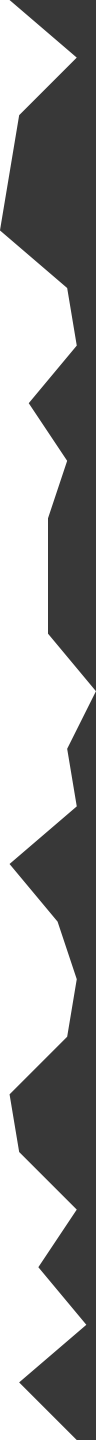
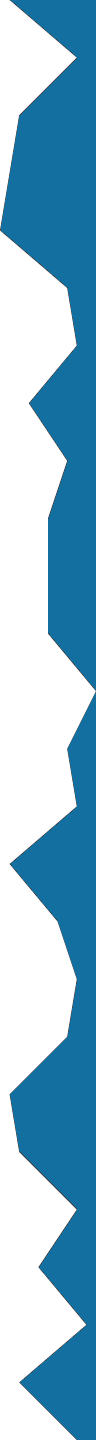
Changed 404 Error Page

diff --git a/templates/404.html b/templates/404.html
@@ -14,7 +14,7 @@
 	 cursor: url("{% static 'power/images/cursors-edge.png' %}"), auto;
 }
  body {
-	 background: linear-gradient(to right, white 50%, #383838 50%);
+	 background: linear-gradient(to right, white 50%, #136fa0 50%);
 	 font-family: "Roboto", sans-serif;
 	 font-size: 18px;
 	 font-weight: 500;
@@ -56,7 +56,7 @@
  main h1 {
 	 font-family: "Fontdiner Swanky", cursive;
 	 font-size: 4rem;
-	 color: #136fa0;
+	 color: #c5dc50;
 	 margin-bottom: 1rem;
 }
  main p {
@@ -71,19 +71,20 @@
 	 font-size: 1rem;
 	 color: #fff;
 	 border: none;
-	 background-color: #136fa0;
+	 background-color: #f36a6f;
 	 padding: 1rem 2.5rem;
 	 transform: skew(-5deg);
 	 transition: all 0.1s ease;
 	 cursor: url("{% static 'power/images/cursors-eye.png' %}"), auto;
 }
+
  main button:hover {
 	 background-color: #c5dc50;
 	 transform: scale(1.15);
 }
  @media (max-width: 700px) {
 	 body {
-		 background: #383838;
+		 background: #136fa0;
 		 font-size: 16px;
 	}
 	 div {
